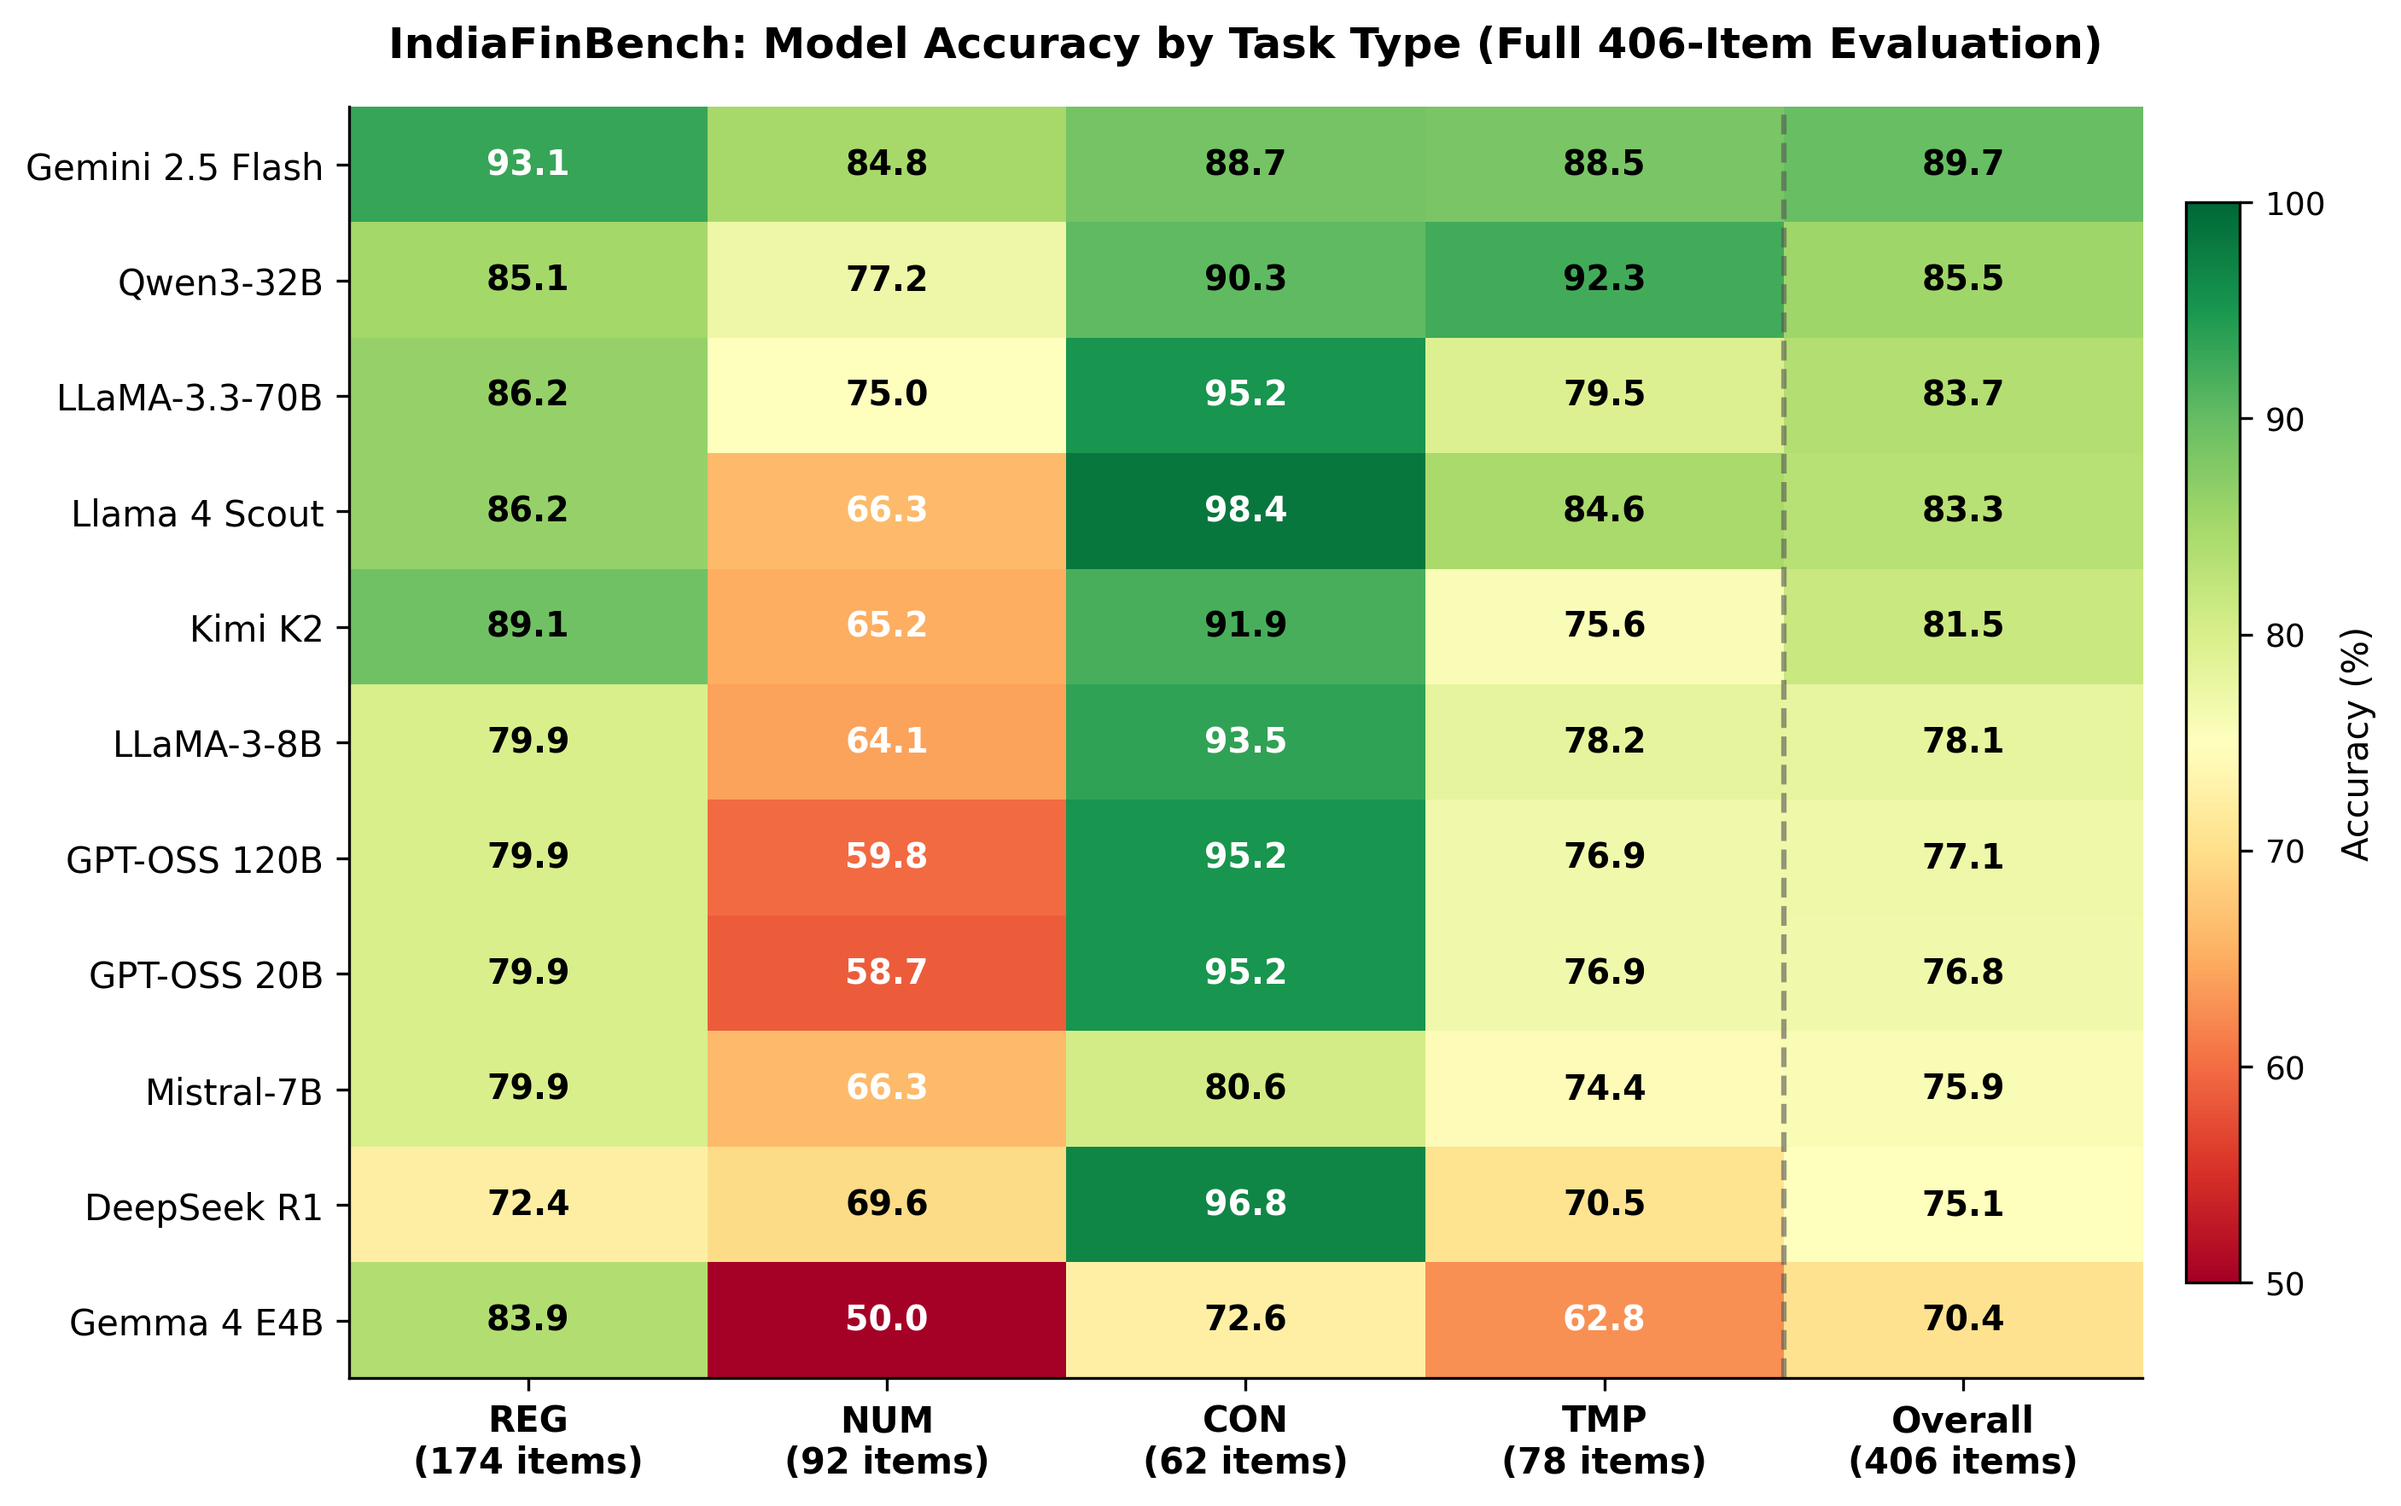
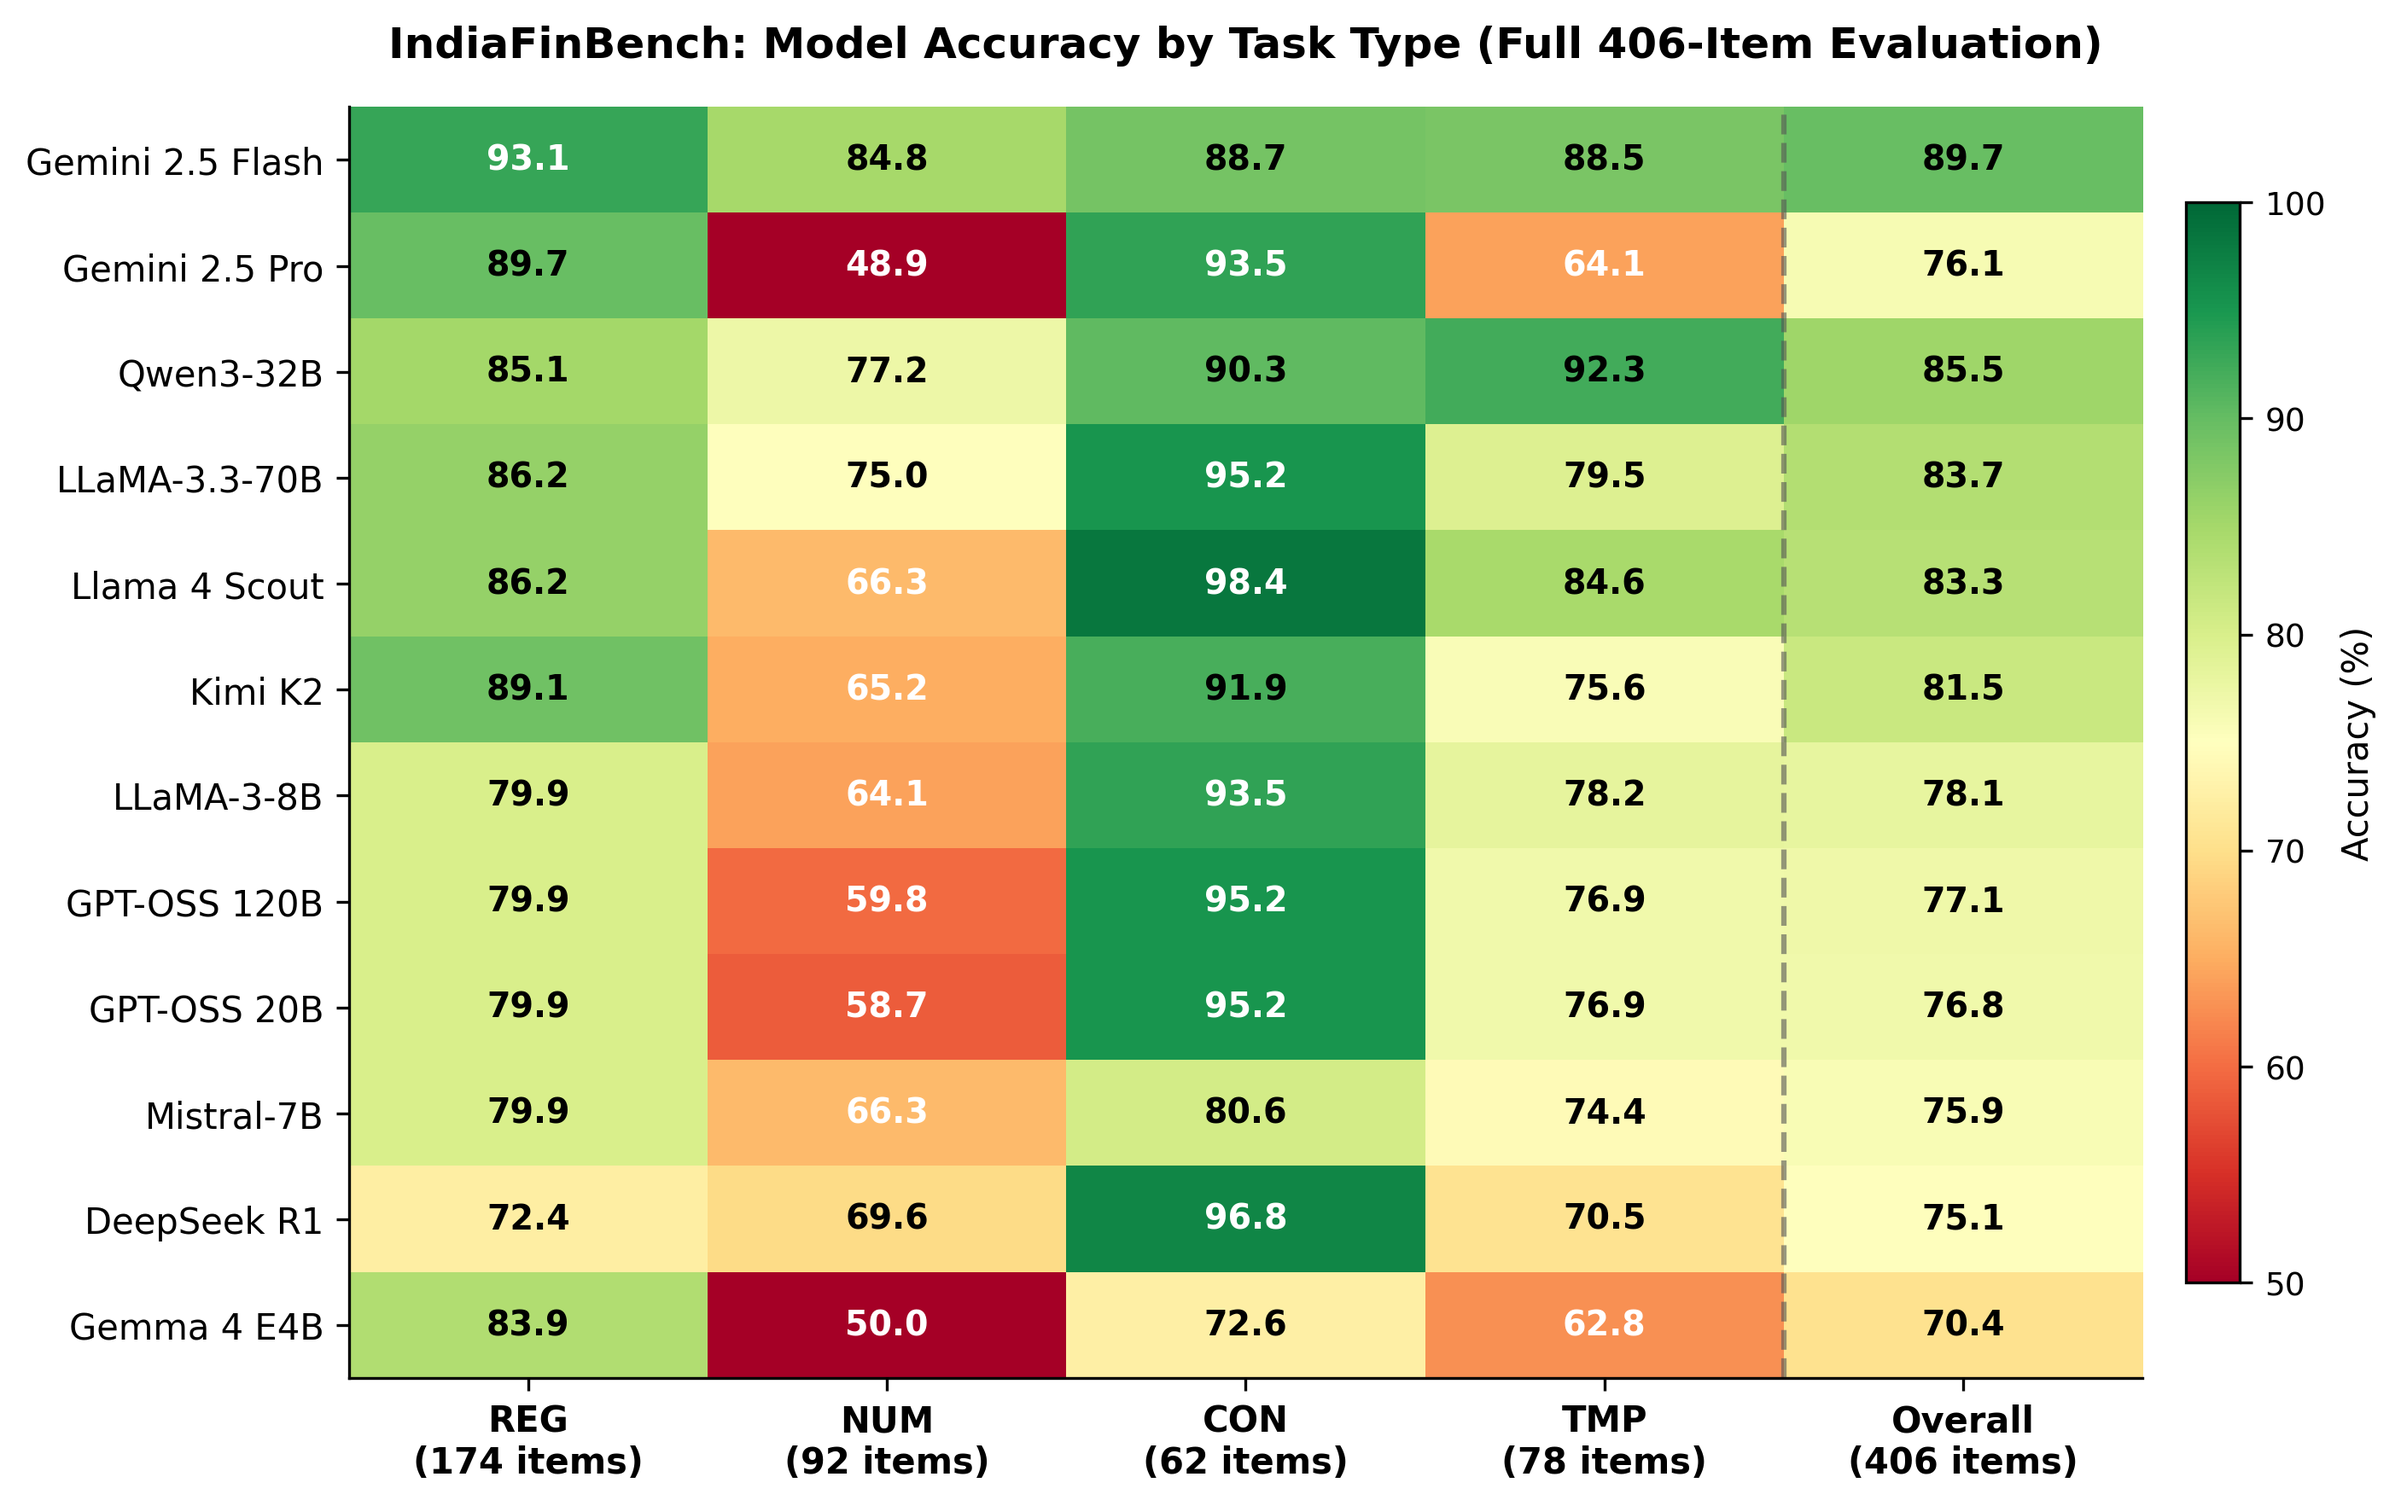
fix(figures): make heatmap load accuracy from results instead of hardcoding it
The submitted paper's heatmap silently rendered only 11 models -- Gemini 2.5
Pro was missing -- while the caption claimed all twelve, because the figure
was regenerated from a hardcoded value block that was never updated. Now
reads from get_task_accuracies() so it cannot drift from the data again.

diff --git a/paper/figures/generate_heatmap.py b/paper/figures/generate_heatmap.py
@@ -8,12 +8,15 @@ models = [
     'Gemini 2.5 Pro', 'Mistral-7B', 'DeepSeek R1 70B', 'Gemma 4 E4B'
 ]
 
-data = {
-    'REG': [93.1, 85.1, 86.2, 86.2, 89.1, 79.9, 79.9, 79.9, 89.7, 79.9, 72.4, 83.9],
-    'NUM': [84.8, 77.2, 75.0, 66.3, 65.2, 64.1, 59.8, 58.7, 48.9, 66.3, 69.6, 50.0],
-    'CON': [88.7, 90.3, 95.2, 98.4, 91.9, 93.5, 95.2, 95.2, 93.5, 80.6, 96.8, 72.6],
-    'TMP': [88.5, 92.3, 79.5, 84.6, 75.6, 78.2, 76.9, 76.9, 64.1, 74.4, 70.5, 62.8],
-}
+# Data is loaded from the evaluation results files, never hardcoded, so this
+# figure cannot drift from the numbers in the paper. Verified 2026-08-31:
+# the previous hardcoded block matched the data on all 48 cells.
+import sys, pathlib
+sys.path.append(str(pathlib.Path(__file__).resolve().parents[2]))
+from scripts.novel_methods_utils import get_task_accuracies
+
+_acc = (get_task_accuracies() * 100).round(1)
+data = {t: [float(_acc.loc[m, t]) for m in models] for t in ['REG', 'NUM', 'CON', 'TMP']}
 
 tasks = ['REG', 'NUM', 'CON', 'TMP']
 matrix = np.array([[data[t][i] for t in tasks] for i in range(len(models))])
